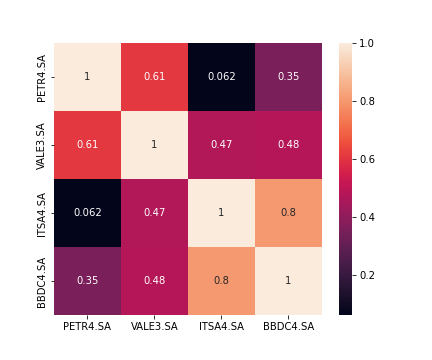
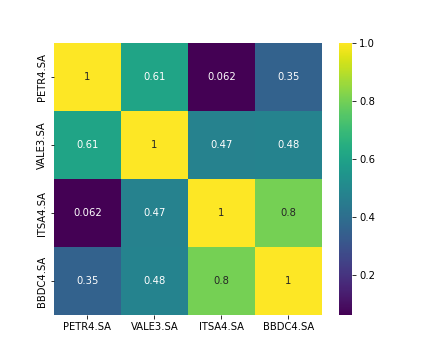
mudança de mapas de cores, novas equações e dados cesta  americana

diff --git a/markowitz.py b/markowitz.py
@@ -101,7 +101,7 @@ fig.savefig('indexes.png')
 # %%
 # Agora, vamos calcular o retorno médio e a variância dos retornos de cada um dos índices. Para isso utilizamos as colunas dos retornos já definidas e calculamos o retorno acumulado médio numa janela móvel com período especificado.
 
-period = 1000
+period = 50
 
 for x in ['IBOV', 'S&P500']:
     # Calculando a média dos retornos na janela especificada
@@ -237,7 +237,7 @@ fig.savefig('mean_and_var_brasilian_basket.png')
 # O último dado relevante para a otimização de portfólios é a correlação entre as ações. A seguir, obtemos a correlação MÉDIA em todo o período entre as ações.
 
 fig, ax = plt.subplots(nrows = 1, ncols = 1, figsize = (6,5))
-sns.heatmap(stocks_data[my_tickers].corr(), annot = True)
+sns.heatmap(stocks_data[my_tickers].corr(), annot = True, cmap = 'viridis')
 plt.savefig('corr_br.png')
 
 # %%
@@ -446,3 +446,56 @@ ax.legend()
 plt.subplots_adjust(wspace = 0, hspace = 0)
 plt.show()
 fig.savefig('usa_basket.png')
+
+
+# %%
+# Vamos calcular os retornos e variâncias de cada uma das ações na cesta brasileira
+
+period = 50
+
+for x in my_tickers:
+    # Calculando a média dos retornos na janela especificada
+    stocks_data['mean_r_' + x] = stocks_data['r_' + x].cumprod().rolling(period).mean()
+
+    # Calculando a variância dos retornos na janela especificada
+    stocks_data['var_r_' + x] = stocks_data['r_' + x].cumprod().rolling(period).var()
+
+# %%
+# Plots dos retornos e variâncias das ações americanas
+
+fig, ax = plt.subplots(nrows = 2, ncols = 1, figsize = (12,6))
+for x in my_tickers:
+    ax[0].plot(stocks_data.index.values, stocks_data['mean_r_' + x], label = x)
+ax[0].set_ylabel(r'$\mu$')
+# ax.set_xticks([])
+ax[0].set_xlim([np.datetime64(dt(int(str(stocks_data.index.values[0])[0:4]), int(str(stocks_data.index.values[0])[5:7]), int(str(stocks_data.index.values[0])[8:10])) - timedelta(days = 50)), np.datetime64(dt(int(str(stocks_data.index.values[- 1])[0:4]), int(str(stocks_data.index.values[-1])[5:7]), int(str(stocks_data.index.values[-1])[8:10])) + timedelta(days = 50))])
+# ax.axvspan(stocks_data.index.values[500], stocks_data.index.values[1200], facecolor='gray')
+# ax[0].set_yticks(list(range(9)))
+# ax[0].set_yticklabels(['0', '', '2', '', '4', '', '6', '',''])
+# ax.set_xlabel('Ano')
+ax[0].legend(loc = 'upper left')
+# ax[0].set_yticks(list(np.arange(0,2.5, 0.5)))
+
+for x in my_tickers:
+    ax[1].plot(stocks_data.index.values, stocks_data['var_r_' + x], label = x)
+ax[1].set_ylabel(r'$\sigma^2$')
+# ax.set_xticks([])
+ax[1].set_xlim([np.datetime64(dt(int(str(stocks_data.index.values[0])[0:4]), int(str(stocks_data.index.values[0])[5:7]), int(str(stocks_data.index.values[0])[8:10])) - timedelta(days = 50)), np.datetime64(dt(int(str(stocks_data.index.values[- 1])[0:4]), int(str(stocks_data.index.values[-1])[5:7]), int(str(stocks_data.index.values[-1])[8:10])) + timedelta(days = 50))])
+# ax.axvspan(stocks_data.index.values[500], stocks_data.index.values[1200], facecolor='gray')
+# ax[0].set_yticks(list(range(9)))
+# ax[0].set_yticklabels(['0', '', '2', '', '4', '', '6', '',''])
+# ax.set_xlabel('Ano')
+# ax[1].set_yticks(list(np.arange(0,0.15, 0.03)))
+ax[1].legend(loc = 'upper left')
+plt.subplots_adjust(wspace = 0, hspace = 0)
+plt.show()
+fig.savefig('mean_and_var_usa_basket.png')
+
+# %% 
+# O último dado relevante para a otimização de portfólios é a correlação entre as ações. A seguir, obtemos a correlação MÉDIA em todo o período entre as ações.
+
+fig, ax = plt.subplots(nrows = 1, ncols = 1, figsize = (6,5))
+sns.heatmap(stocks_data[my_tickers].corr(), annot = True, cmap = 'viridis')
+plt.savefig('corr_us.png')
+
+# %%

diff --git a/README.md b/README.md
@@ -2,7 +2,7 @@
 ## Objetivos
 - Recolher dados históricos de dois índices (S&P500 e IBOV) para detectarmos períodos de movimentações abruptas;
 - Escolher 4 ações de empresas pertencentes a cada um dos índices e calcular os retornos ao longo do tempo e as respectivas variâncias;
-- Aplicar o processo de otimização às duas cestas de ativos; exibir o retorno do postifólio otimizado;
+- Aplicar o processo de otimização às duas cestas de ativos; exibir o retorno do portifólio otimizado;
 - Exibir a fronteira eficiente
 - Calcular a curvatura da fronteira eficiente sobre o portifólio eficiente;
 - A curvatura sobre o portifólio eficiente pode ser útil como indicativo de períodos de mudanças abrubtas?
@@ -31,14 +31,7 @@ No gráfico abaixo, vemos o retorno médio de cada índice numa janela de 50 dia
 Podemos observar que o índice S&P500 entregaram um retorno maior que o índice Ibovespa. Além disso, o gráfico da variância atesta que o índice Ibovespa está sujeito a oscilações maiores e mais frequentes que o índice S&P500, como pode ser observado no gráfico dos históricos de preços.
 ## Cestas de Ativos
 
-Agora, vamos escolher quatro ativos presentes em cada um dos índices. Vamos exibir gráficos dos preços de cada um deles e calcular os retornos médios e as variâncias médias.
-
-### Google, Mycrosoft, Amazon, Coca-Cola
-
-A seguir o histórico de preços normalizados de quatro empresas estadunidenses: Google, Mycrosoft, Amazon e Coca-Cola. 
-
-<img src="usa_basket.png" 
-     style="float: left; margin-left: 10px;" />
+Agora, vamos escolher quatro ativos presentes em cada um dos índices. Vamos exibir gráficos dos preços; calcular os retornos e as variâncias médias; e as correlações entre os ativos de cada cesta.
 
 ### Petrobrás, Vale, Itaúsa, Bradesco
 
@@ -57,6 +50,26 @@ Primeiramente, podemos observar que ação com maior retorno é a da empresa Val
 Podemos ainda calcular a correlação média entre as ações nas cesta.
 
 <div style="text-align:center"><img src = "corr_br.png" /></div>
+
+Podemos observar correlações elevadas entre  Banco Bradesco e Itaúsa e entre Vale e Petrobrás. É provável que a correlação deva-se à semelhança entre os negócios.
+
+### Google, Mycrosoft, Amazon, Coca-Cola
+
+A seguir o histórico de preços normalizados de quatro empresas estadunidenses: Google, Mycrosoft, Amazon e Coca-Cola. 
+
+<img src="usa_basket.png" 
+     style="float: left; margin-left: 10px;" />
+
+No gráfico abaixo, assim como fizemos para os índices, temos os retornos acumulados e as variâncias para as ações na cesta brasileira.
+
+<img src="mean_and_var_usa_basket.png" 
+     style="float: left; margin-left: 10px;" />
+
+Primeiramente, podemos observar que ação com maior retorno é a da empresa Vale. É também a que possui maior variância. Esta possui um pico muito expressivo em 2020, provavelmente em virtude da oscilação de preços causada pela pandemia do corona vírus.
+
+Podemos ainda calcular a correlação média entre as ações nas cesta.
+
+<div style="text-align:center"><img src = "corr_us.png" /></div>
 
 Podemos observar correlações elevadas entre  Banco Bradesco e Itaúsa e entre Vale e Petrobrás. É provável que a correlação deva-se à semelhança entre os negócios.
 ## Portifólios Otimizados
@@ -101,7 +114,7 @@ onde $\lambda_1$ está relacionado com o vínculo da variância fixada e $\lambd
 $$ \Sigma \vec{\alpha} - \lambda_1 \vec{\mu} - \lambda_2\vec{1} = 0.$$
 
 De onde obtemos
-$$  \vec{\alpha} =  \lambda_1 \Sigma^{-1}\vec{\mu} + \lambda_2\Sigma^{-1}\vec{1} = 0.$$
+$$  \vec{\alpha} =  \lambda_1 \Sigma^{-1}\vec{\mu} + \lambda_2\Sigma^{-1}\vec{1}.$$
 
 Resta determinar $\lambda_1$ e $\lambda_2$. Vamos utilizar as equações de vínculo para obter duas equações e resolver os sistema linear.
 
@@ -111,6 +124,8 @@ $$1 = \vec{\alpha}^t\vec{1}= \lambda_1 \vec{\mu}^t\Sigma^{-1}\vec{1} + \lambda_2
 
 Na forma matricial,
 $$ \begin{pmatrix}\vec{\mu}^t\Sigma^{-1}\mu & \vec{\mu}^t\Sigma^{-1}\vec{1} \\ \vec{\mu}^t\Sigma^{-1}\vec{1} & \vec{1}^t\Sigma^{-1}\vec{1} \end{pmatrix}\begin{pmatrix} \lambda_1 \\ \lambda_2 \end{pmatrix} = \begin{pmatrix} \mu_0 \\ 1 \end{pmatrix}.$$
+
+Com isso, obtemos um sistema de equações que nos permite obter $\lambda_1$ e $\lambda_2$ e, com isso, calcular as alocações do portfólio eficiente.
 
 Note que se conhecemos $\alpha$ podemos obter a variância do portifólio, $ \sigma^2 = \vec{\alpha}^t \Sigma \vec{\alpha}$, em função de um retorno $\mu_0$ fixado. Utilizando as expressões para $\vec{\alpha}$ podemos mostrar que
 
@@ -160,8 +175,17 @@ onde $\mu^\prime$ é a primeira derivada de $\mu$ em relação a $t$ e $\mu^{\pr
 
 Felizmente as derivadas das funções trigonométricas hiperbólicas possuem relações recorrentes. Isto nos permite simplificar enormemente a expressão da curvatura
 
-$$k(t)= \frac{a}{d} \left(\cosh^2(t) + a\sinh^2(t)\right)^{-\frac{3}{2}}.$$
+$$k(t)= \frac{a}{\sqrt{c - \frac{b^2}{4a}}} \left(\cosh^2(t) + a\sinh^2(t)\right)^{-\frac{3}{2}}.$$
+
+O primeiro ponto de interesse acontece quando $t=0$. Nesse caso, temos uma expressão muito simples para a curvatura
+
+$$k(0)= \frac{a}{\sqrt{c - \frac{b^2}{4a}}}.$$
 
 Mais ainda, podemos expressar a curvatura em termos de $\mu$ e $\sigma$
 
-$$k(\mu, \sigma) = \frac{c - \frac{b^2}{4a}}{\left(\sigma^2 + \left(a\mu + \frac{b}{2}\right)^2\right)^{\frac{3}{2}}}.$$
+$$k(\mu, \sigma) = \frac{ac - \frac{b^2}{4}}{\left(\sigma^2 + \left(a\mu + \frac{b}{2}\right)^2\right)^{\frac{3}{2}}}.$$
+Isto nos permitirá calcular a curvatura no ponto que representa o portfólio eficiente.
+
+Podemos ainda nos perguntar como é a curvatura no ponto em que a fronteira eficiente intercepta o eixo das abscissas. Isto é, quando $\mu(t)=0$. Isto nos permite obter o respectivo valor de $t$ e, em seguida, a variância desse ponto:
+$$ \sigma^2 = \frac{4ac + b^2}{4a}.$$
+E assim, conseguimos obter a curvatura da hipérbole nesse ponto.
